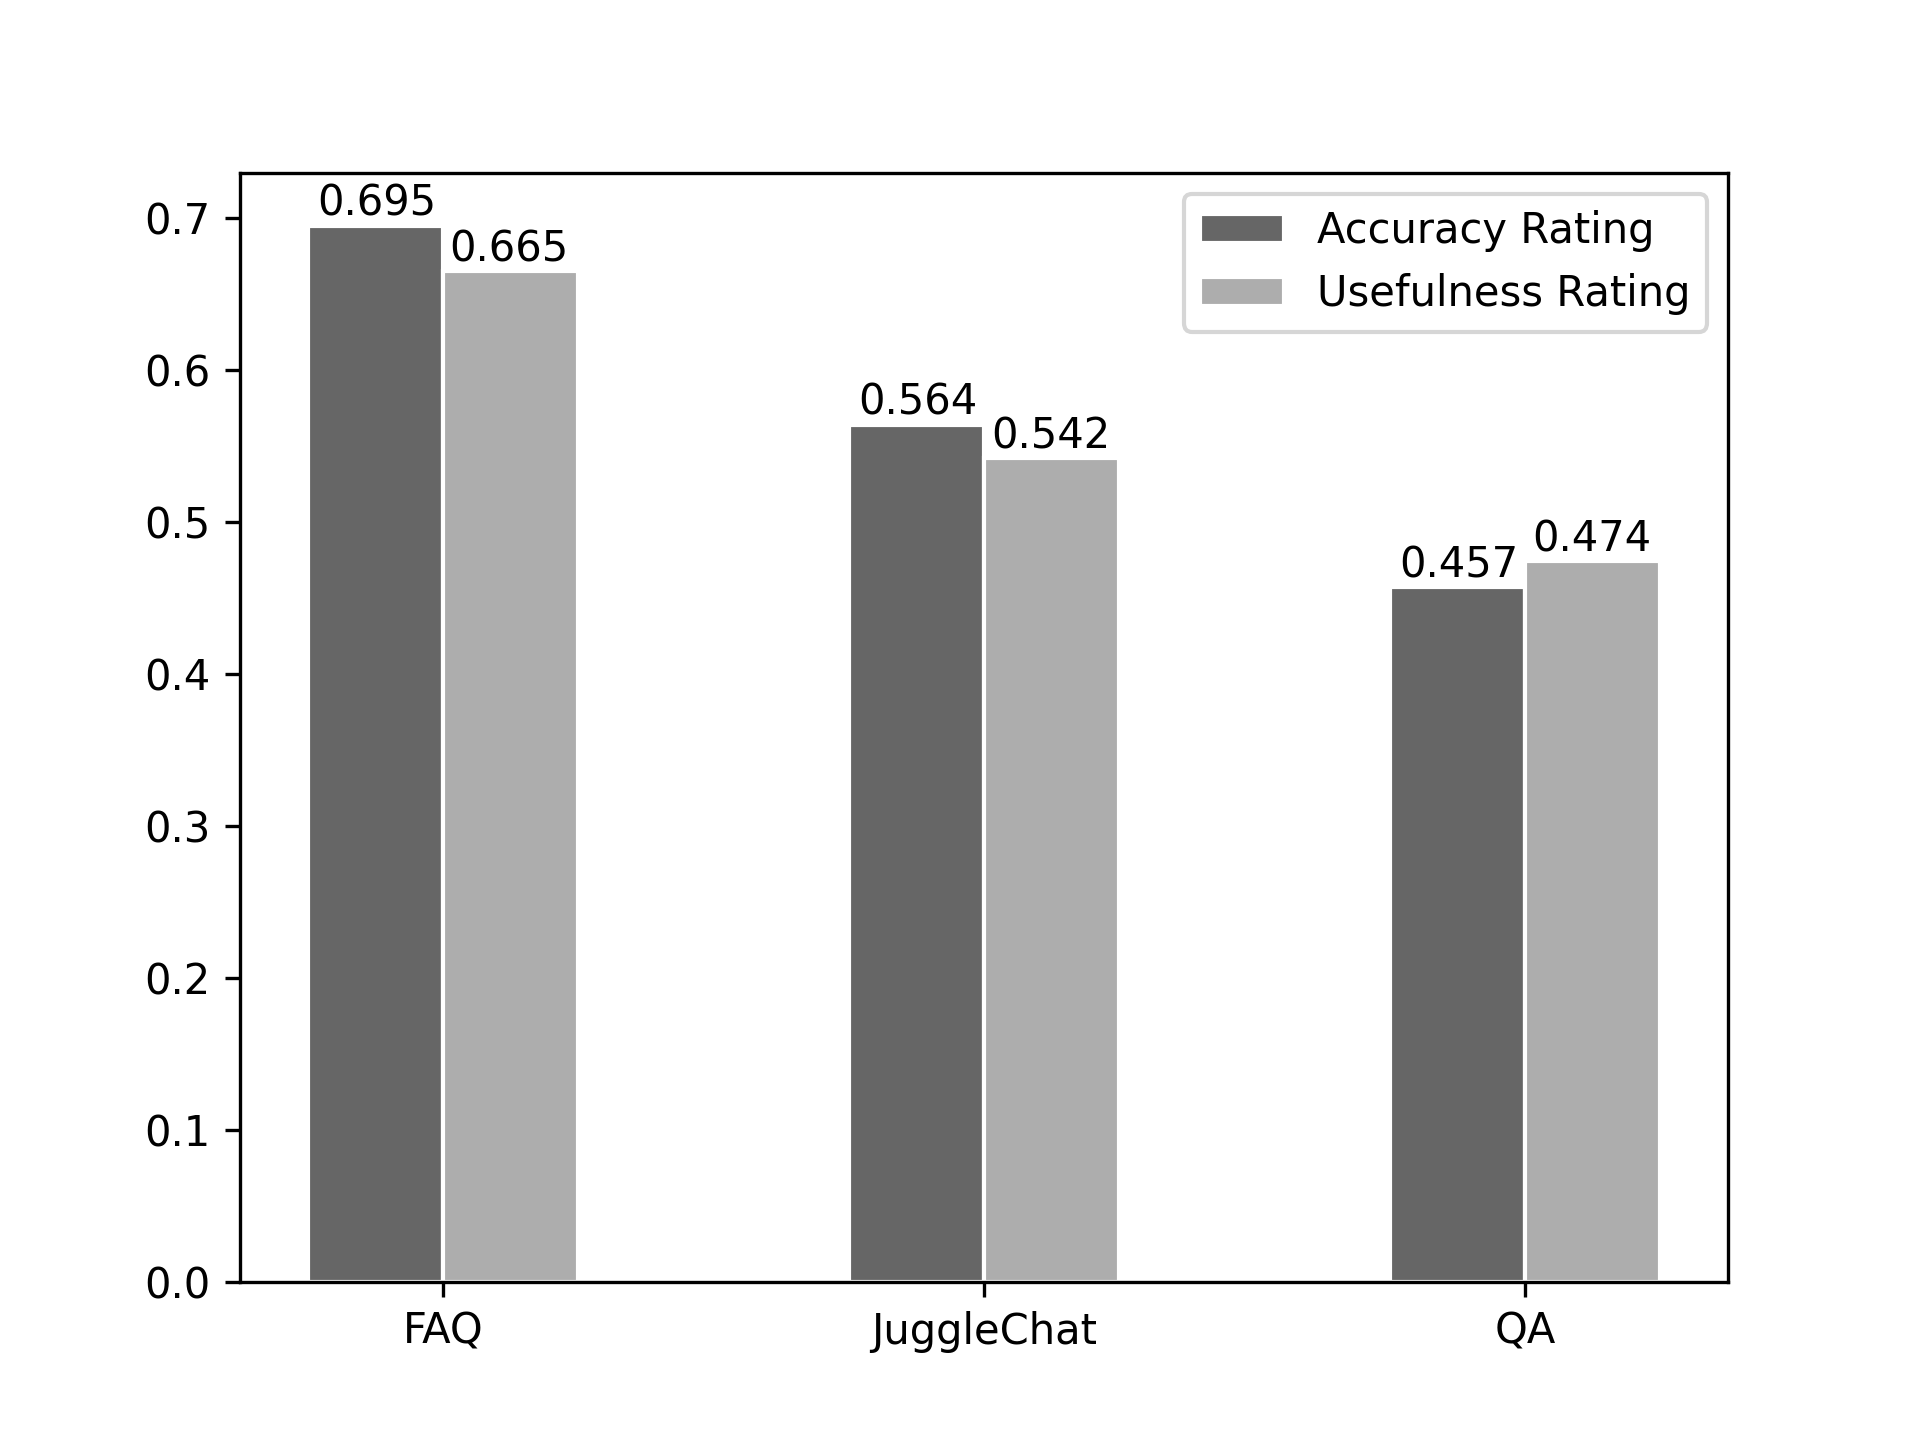
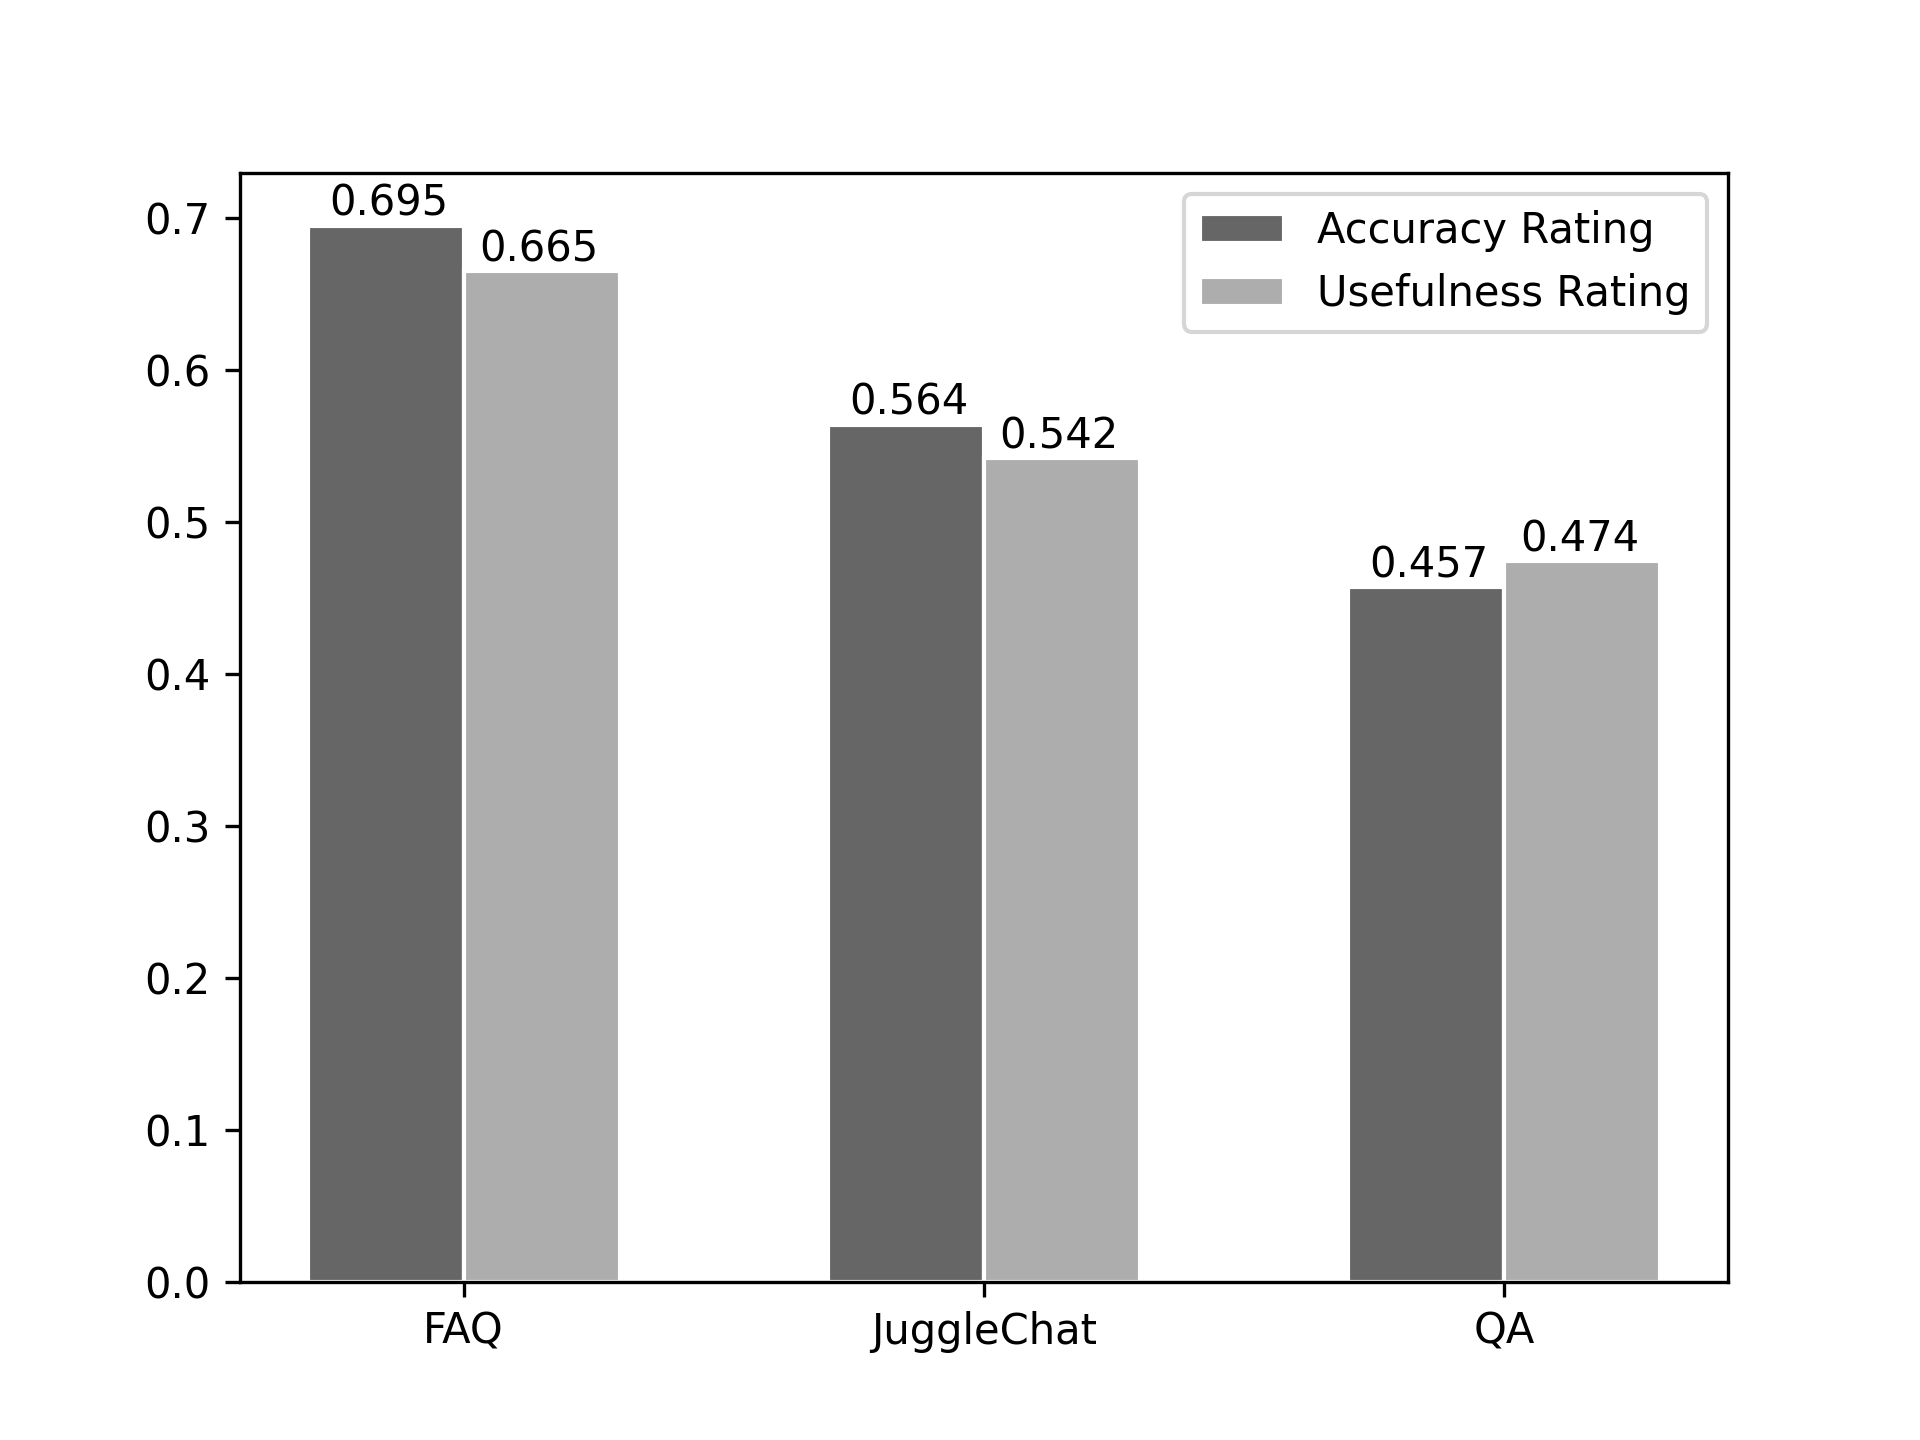
fixed histogram bar size in usefulness and accuracy chart

Changed region(s): [[0.1562, 0.125, 0.3438, 0.9375], [0.4062, 0.25, 0.5938, 0.9062], [0.6875, 0.3438, 0.875, 0.9375]]

diff --git a/experiment/data_visualization.py b/experiment/data_visualization.py
@@ -142,7 +142,7 @@ def plot_accuracy_and_usefulness():
         round(results_json['mean_usefulness_rating_qa']/10, 3)
     ]
 
-    bar_width = 0.25
+    bar_width = 0.3
 
     accuracy_positions = np.arange(len(experimental_groups))
     usefulness_positions = [x + bar_width for x in accuracy_positions]
@@ -181,7 +181,7 @@ def plot_accuracy_and_usefulness():
     def autolabel(rects, xpos='center'):
         xpos = xpos.lower()
         ha = {'center': 'center', 'right': 'left', 'left': 'right'}
-        offset = {'center': 0.5, 'right': 0.05, 'left': 0.95}
+        offset = {'center': 0.5, 'right': 0.1, 'left': 0.9}
 
         for rect in rects:
             height = rect.get_height()
